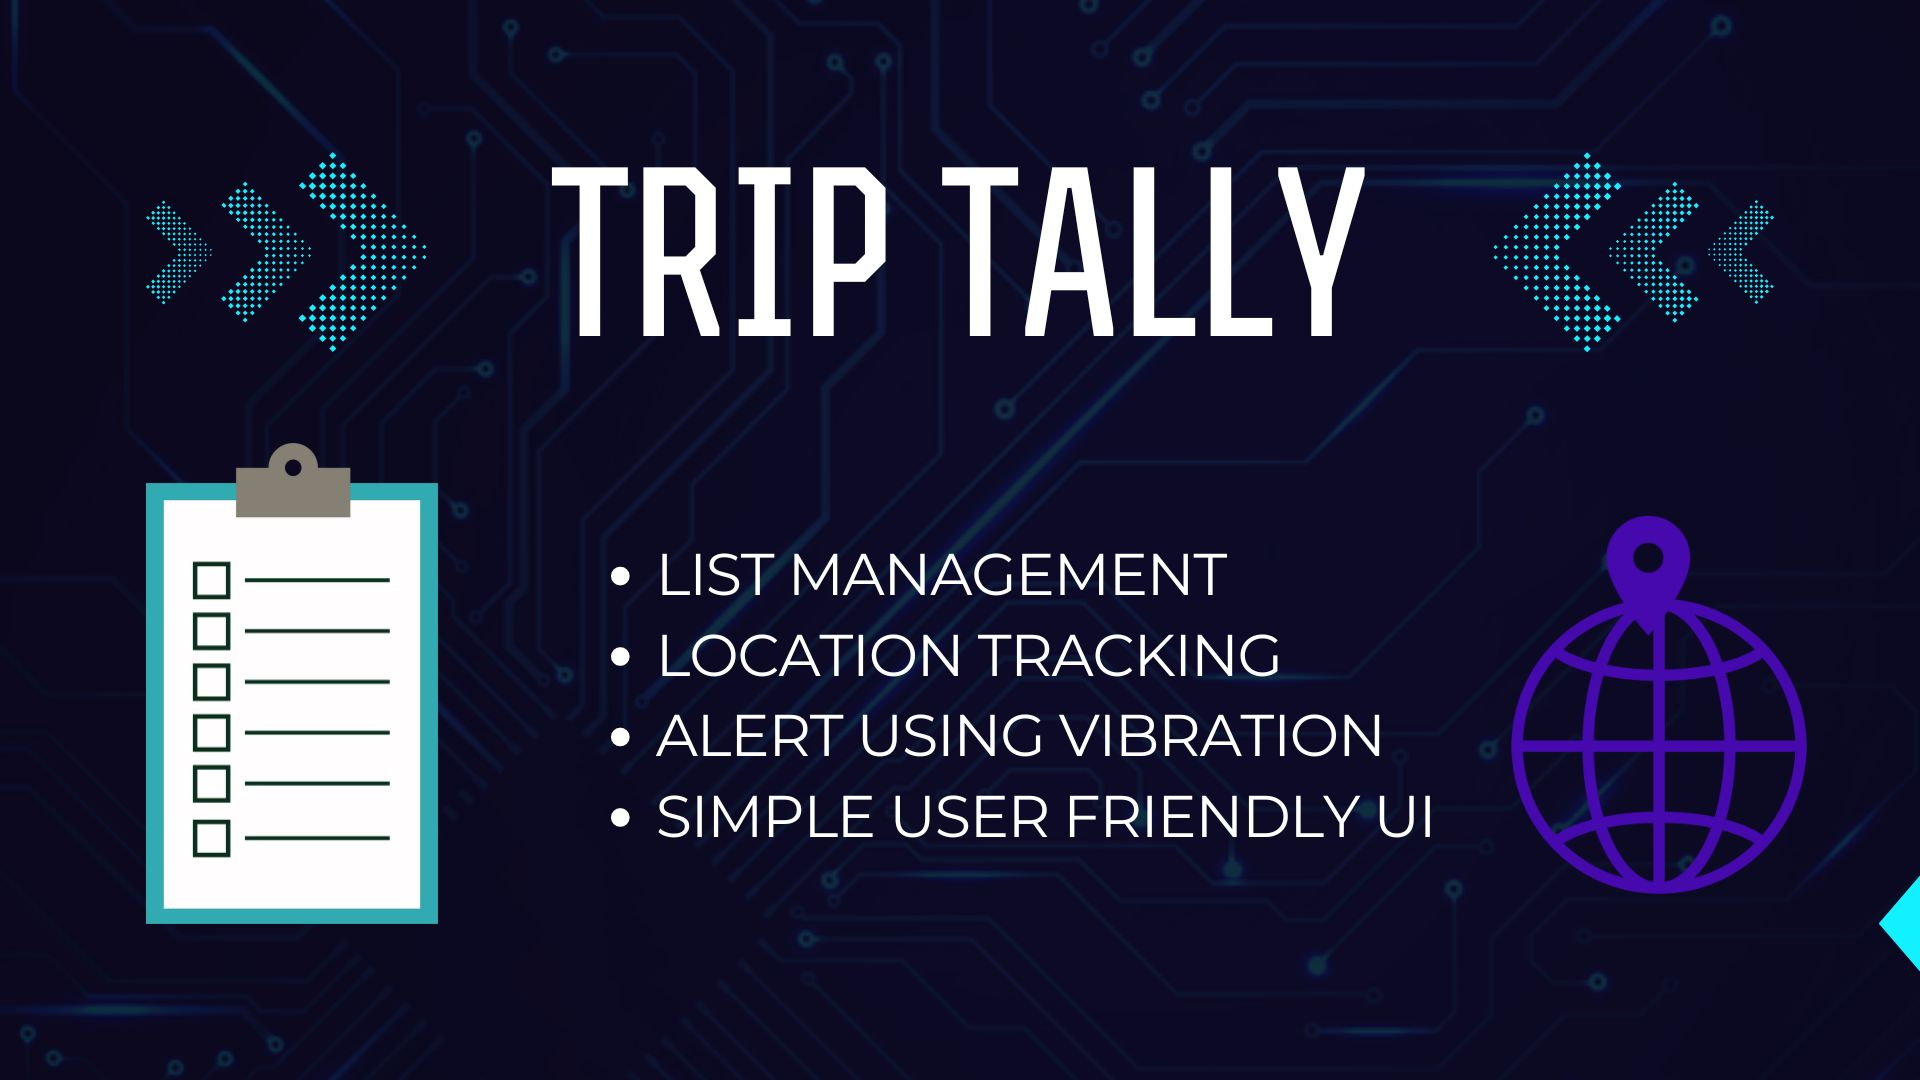
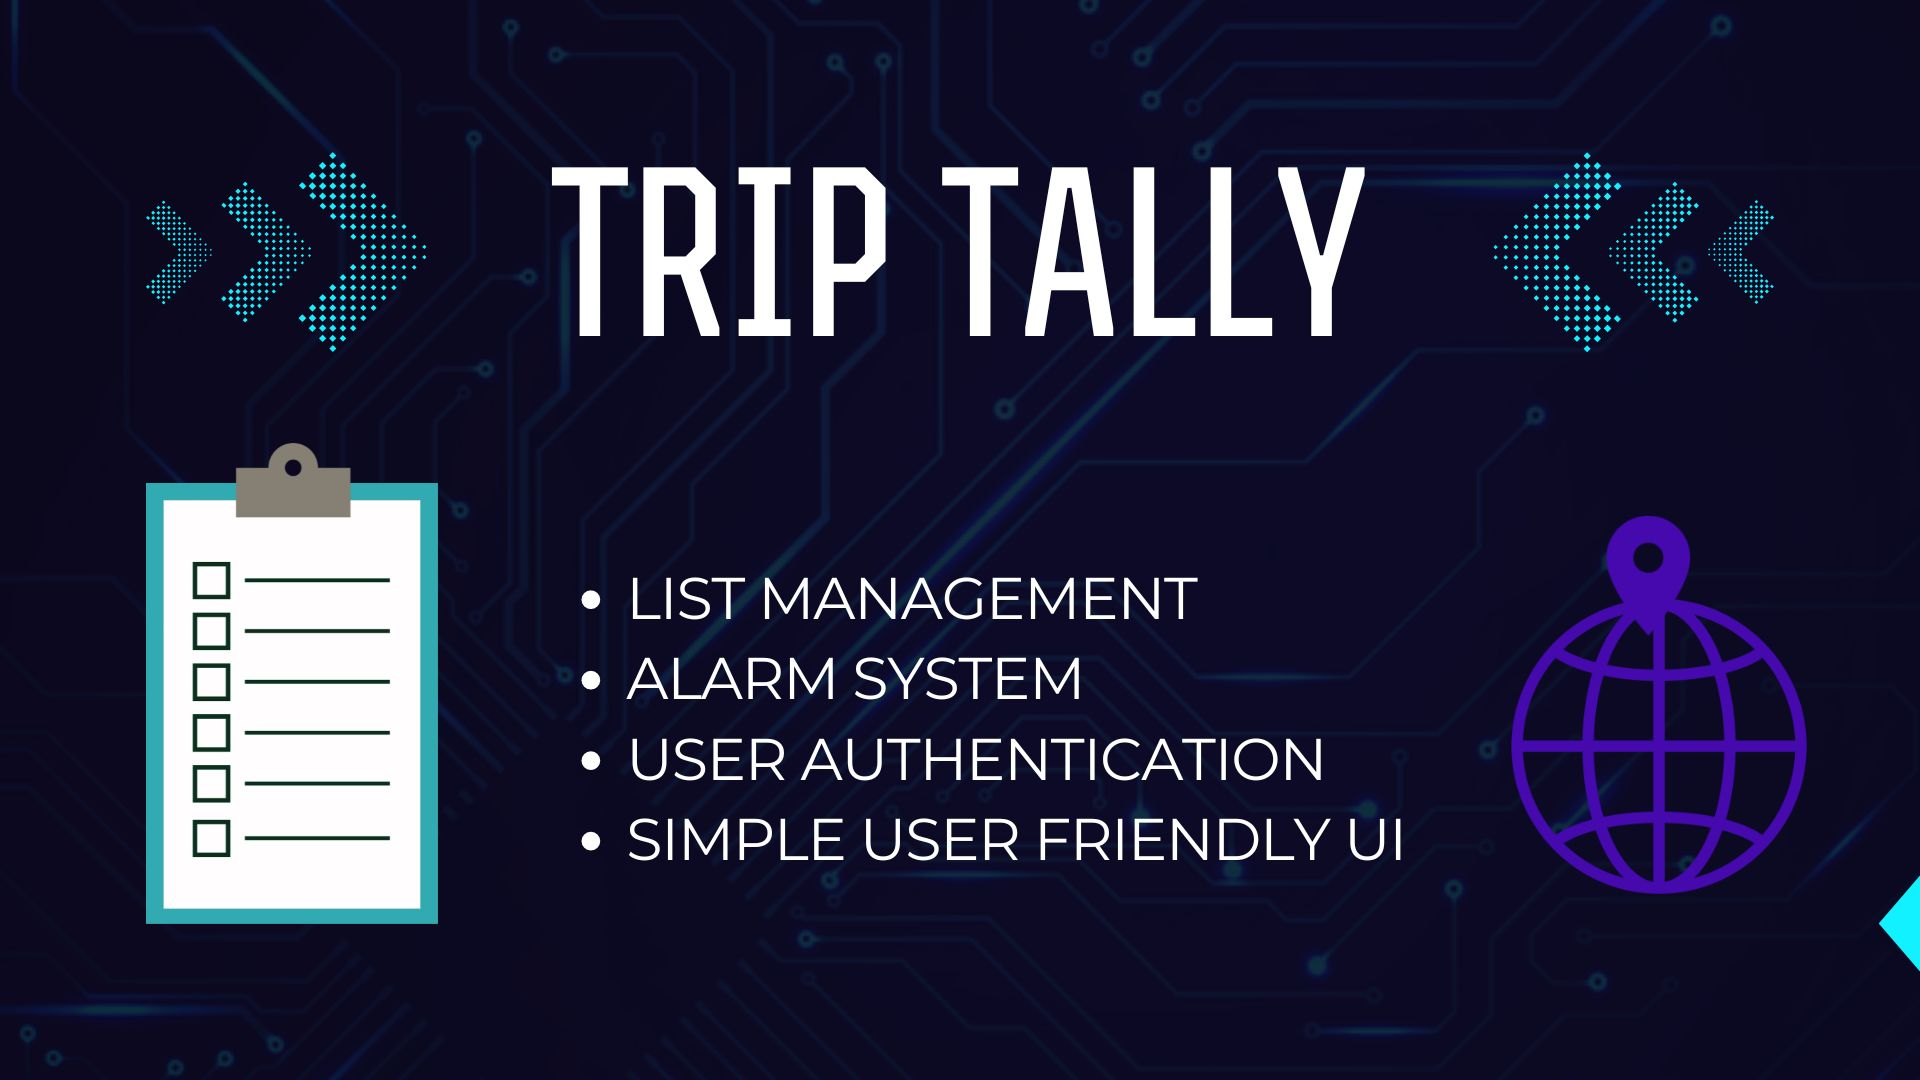
Project Finished a

Changed region(s): [[0.2812, 0.4889, 0.75, 0.7944], [0.0938, 0.6417, 0.125, 0.6722]]

diff --git a/public/styles/components/main.css b/public/styles/components/main.css
@@ -102,7 +102,15 @@
     background-color: red;
 }
 
-@media screen and (max-width: 600px) 
+@media screen and (min-width: 600px) 
 {
+    .guide-cont
+    {
+        margin-bottom: -30px;
+    }
 
+    .guide
+    {
+        flex-direction: row;
+    }
 }

diff --git a/README.md b/README.md
@@ -1,5 +1,5 @@
 # TripTally
-A sleek app to manage and track your travel essentials. Organize your packing lists, set reminders for must-buy items, and get real-time notifications if you forget anything while on the go.
+A sleek app to manage and track your travel essentials. Organize your packing lists, set reminders for must-buy items, and get alarms if you forget anything while on the go.
 
 ![Main](Readme/TripTally.jpg)
 
@@ -20,7 +20,8 @@ A sleek app to manage and track your travel essentials. Organize your packing li
 #### Key Feaures
 
 * **Items List with Storage :-** Seperate Lists for Home and Trip Storing everything.
-* **Alert System:-** If User forgot to Add Item Mentioned in the list, A Music will be Played as an Alarm.
+- **Alert System:-** If User forgot to Add Item Mentioned in the list, A Music will be Played as an Alarm.
+* **User Auth:-** User can Sign Up and Login to Store their List.
 - **User Interface :-** A User Friendly Interface with an Abstraction Layer so that User can easily maintain their List 
 
 ---
